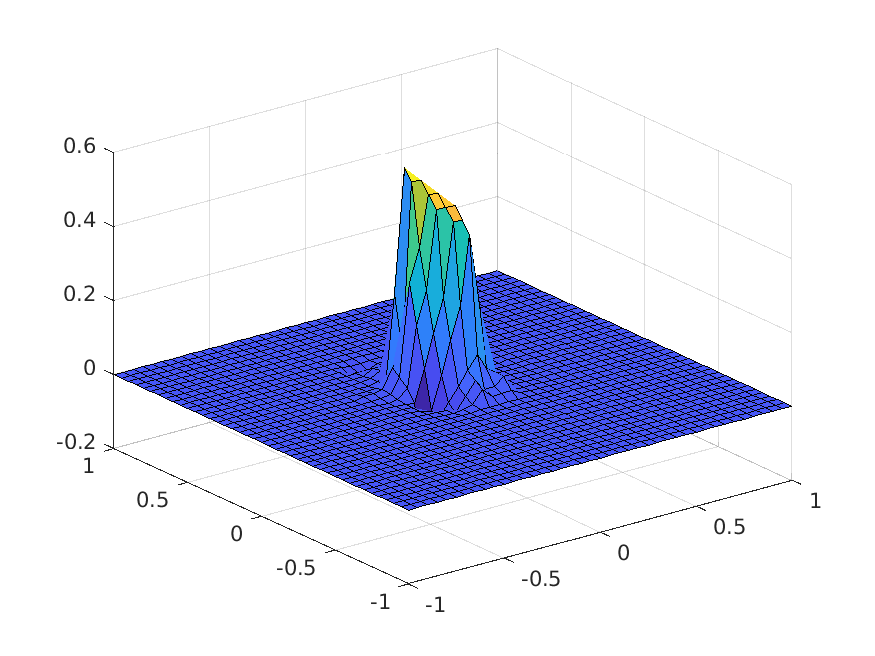
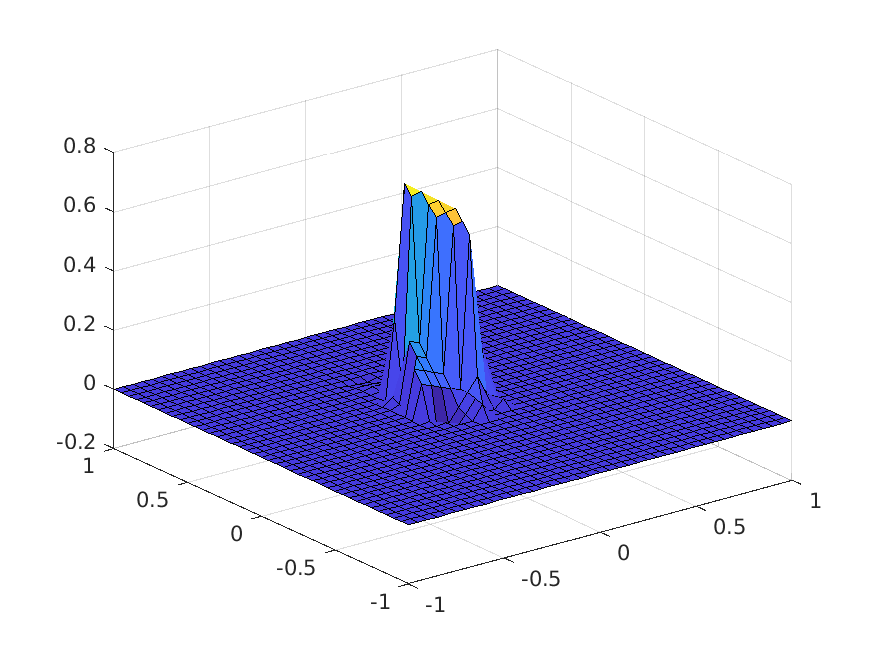
some testing

diff --git a/Codes1.1/Codes3D/test.m b/Codes1.1/Codes3D/test.m
@@ -27,9 +27,11 @@ FinalTime = 0.5;
 % zero initial condition 
 Hx = zeros(Np, K); Hy = zeros(Np, K); Hz = zeros(Np, K);
 Ex = zeros(Np, K); Ey = zeros(Np, K); Ez = zeros(Np, K);
+xmode = 1; ymode = 1; 
+Ez = sin(xmode*pi*x).*sin(ymode*pi*y);
 
-node_source = findNearestNode(source_coordinates);
-Ez(:,node_source(2)) = 1;
+% node_source = findNearestNode(source_coordinates);
+% Ez(:,node_source(2)) = 1;
 
 [Hx,Hy,Hz,Ex,Ey,Ez] = Maxwell3DPointSource(Hx,Hy,Hz,Ex,Ey,Ez,FinalTime,source,source_coordinates);
 
@@ -61,8 +63,10 @@ InitMatLawsonSparse;
 % zero initial condition 
 Hx = zeros(Np, K); Hy = zeros(Np, K); Hz = zeros(Np, K);
 Ex = zeros(Np, K); Ey = zeros(Np, K); Ez = zeros(Np, K);
-%node_source = findNearestNode(source_coordinates);
-%Ez(:,node_source(2)) = 1;
+% 1 element
+% node_source = findNearestNode(source_coordinates);
+% Ez(:,node_source(2)) = 1;
+% mode
 xmode = 1; ymode = 1; 
 Ez = sin(xmode*pi*x).*sin(ymode*pi*y);
 

diff --git a/Codes1.1/Codes3D/Maxwell3DMat.m b/Codes1.1/Codes3D/Maxwell3DMat.m
@@ -10,11 +10,10 @@ function [Hx, Hy, Hz, Ex, Ey, Ez] = Maxwell3DMat(Hx, Hy, Hz, Ex, Ey, Ez, FinalTi
 Globals3D;
 Ez_time = [];
 
-       
-       f = figure('visible','off');
-       PlotPlain3D(0, Ez); drawnow; pause(0.1);
-       filename = "field" + num2str(1+ ".png");
-       saveas(f,filename)
+f = figure('visible','off');
+PlotPlain3D(0, Ez); drawnow; pause(0.1);
+filename = "field" + num2str(1+ ".png");
+saveas(f,filename)
 
 U = FieldsToU(Hx, Hy, Hz, Ex, Ey, Ez);
 
@@ -26,7 +25,7 @@ idx = idxEH_to_idxU(3, idx);
 dt = dtscale3D;  % TW: buggy
 
 % correct dt for integer # of time steps
-Ntsteps = ceil(FinalTime/dt); dt = FinalTime/Ntsteps /2
+Ntsteps = ceil(FinalTime/dt); dt = FinalTime/Ntsteps /10
 
 time = 0; tstep = 1;
 

diff --git a/Codes1.1/Codes3D/MaxwellRHS3D.m b/Codes1.1/Codes3D/MaxwellRHS3D.m
@@ -19,7 +19,7 @@ dHx(mapB) = -2*Hx(vmapB);  dEx(mapB) = -2*Ex(vmapB);
 dHy(mapB) = -2*Hy(vmapB);  dEy(mapB) = -2*Ey(vmapB); 
 dHz(mapB) = -2*Hz(vmapB);  dEz(mapB) = -2*Ez(vmapB);
 
-alpha=1; % => full upwinding
+alpha=1;
 
 ndotdH = nx.*dHx + ny.*dHy + nz.*dHz;
 ndotdE = nx.*dEx + ny.*dEy + nz.*dEz;

diff --git a/Codes1.1/Codes3D/Maxwell3DPointSource.m b/Codes1.1/Codes3D/Maxwell3DPointSource.m
@@ -11,7 +11,7 @@ Ez_time = [];
 
 
 f = figure('visible','off');
-PlotPlain3D(0, Ez); drawnow; pause(0.1);
+PlotPlain3D(1, Ez); drawnow; pause(0.1);
 filename = "field" + num2str(0 + ".png");
 saveas(f,filename)
        

diff --git a/Codes1.1/Codes3D/S_iELawson.m b/Codes1.1/Codes3D/S_iELawson.m
@@ -20,7 +20,7 @@ for face=1:Nfaces
   
   % surface Jacobian
   sJacobian = sJ(Nfp*(face-1)+1,i);
-
+  
   % normal vector
   n_x = nx(Nfp*(face-1)+1,i);
   n_y = ny(Nfp*(face-1)+1,i);
